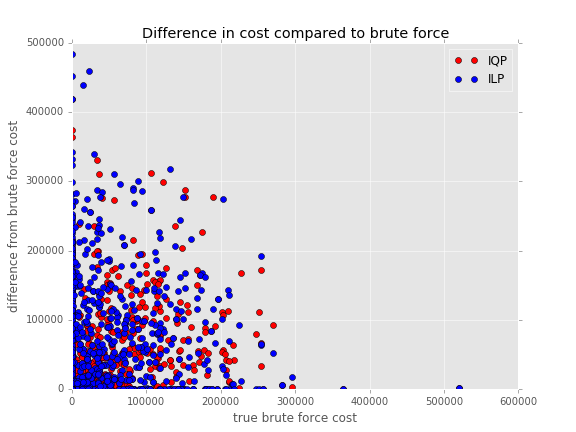
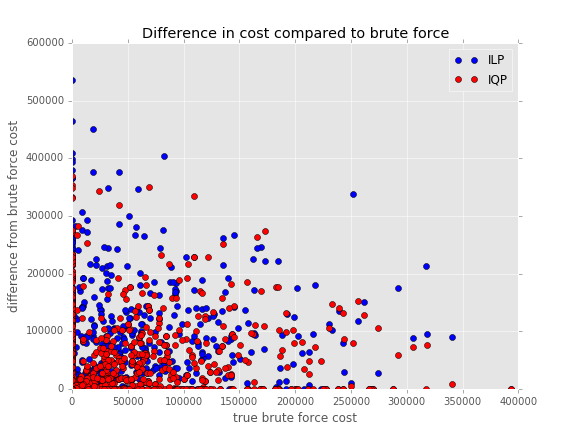
Redoing plots.

diff --git a/pysrc/scraper.py b/pysrc/scraper.py
@@ -41,9 +41,9 @@ plt.figure()
 plt.title("Difference in cost compared to brute force")
 plt.xlabel("true brute force cost")
 plt.ylabel("difference from brute force cost")
-iqp_plot, = plt.plot(variable, iqp_response, 'ro', label='IQP')
 ilp_plot, = plt.plot(variable, ilp_response, 'bo', label='ILP')
-plt.legend(handles=[iqp_plot, ilp_plot])
+iqp_plot, = plt.plot(variable, iqp_response, 'ro', label='IQP')
+plt.legend(handles=[ilp_plot, iqp_plot])
 plt.savefig("figure1.png", format="png", dpi=72)
 plt.clf()
 
